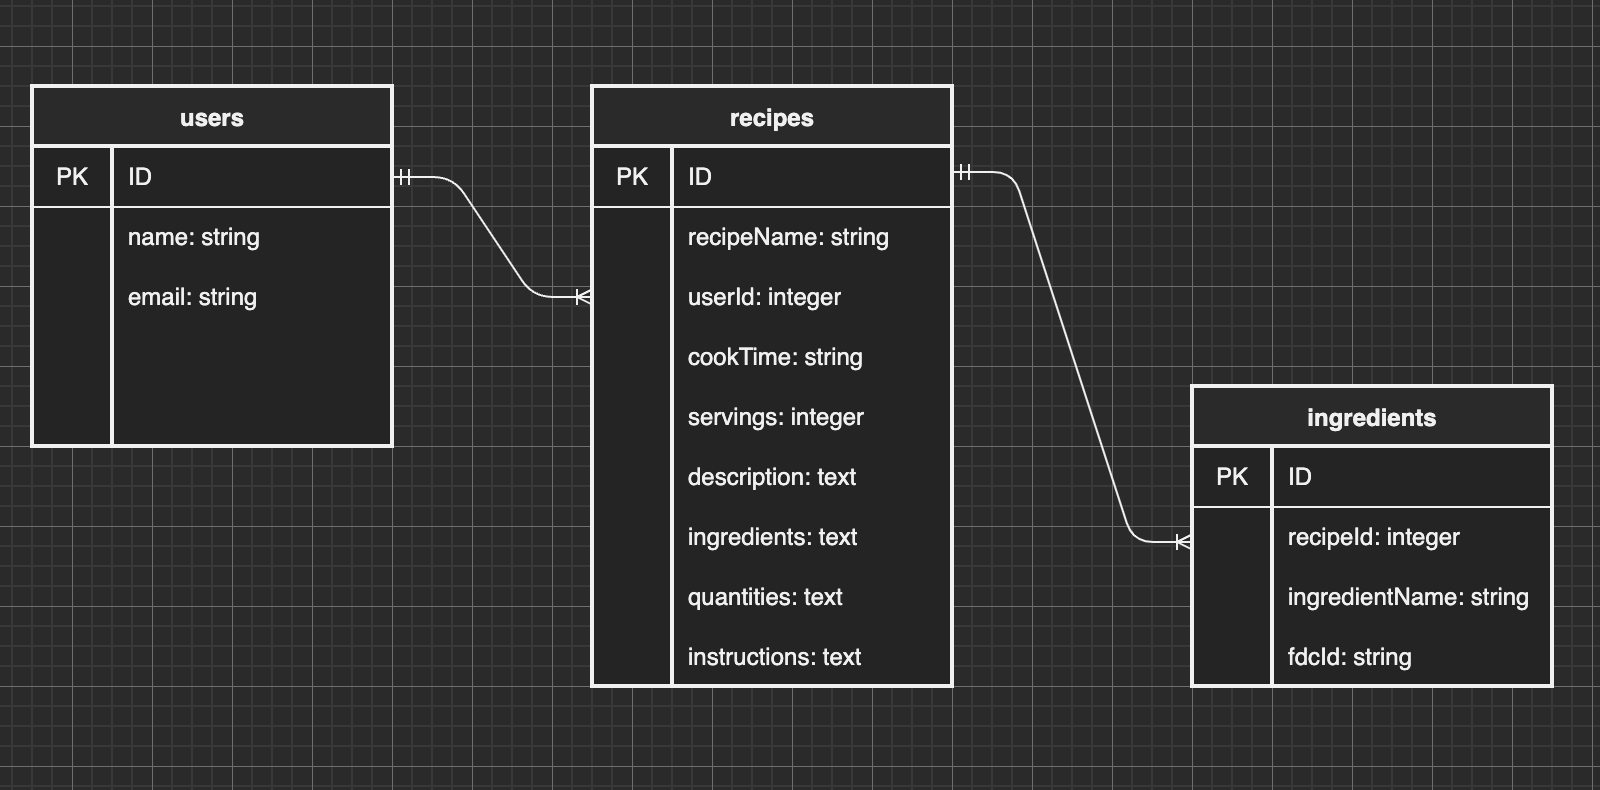
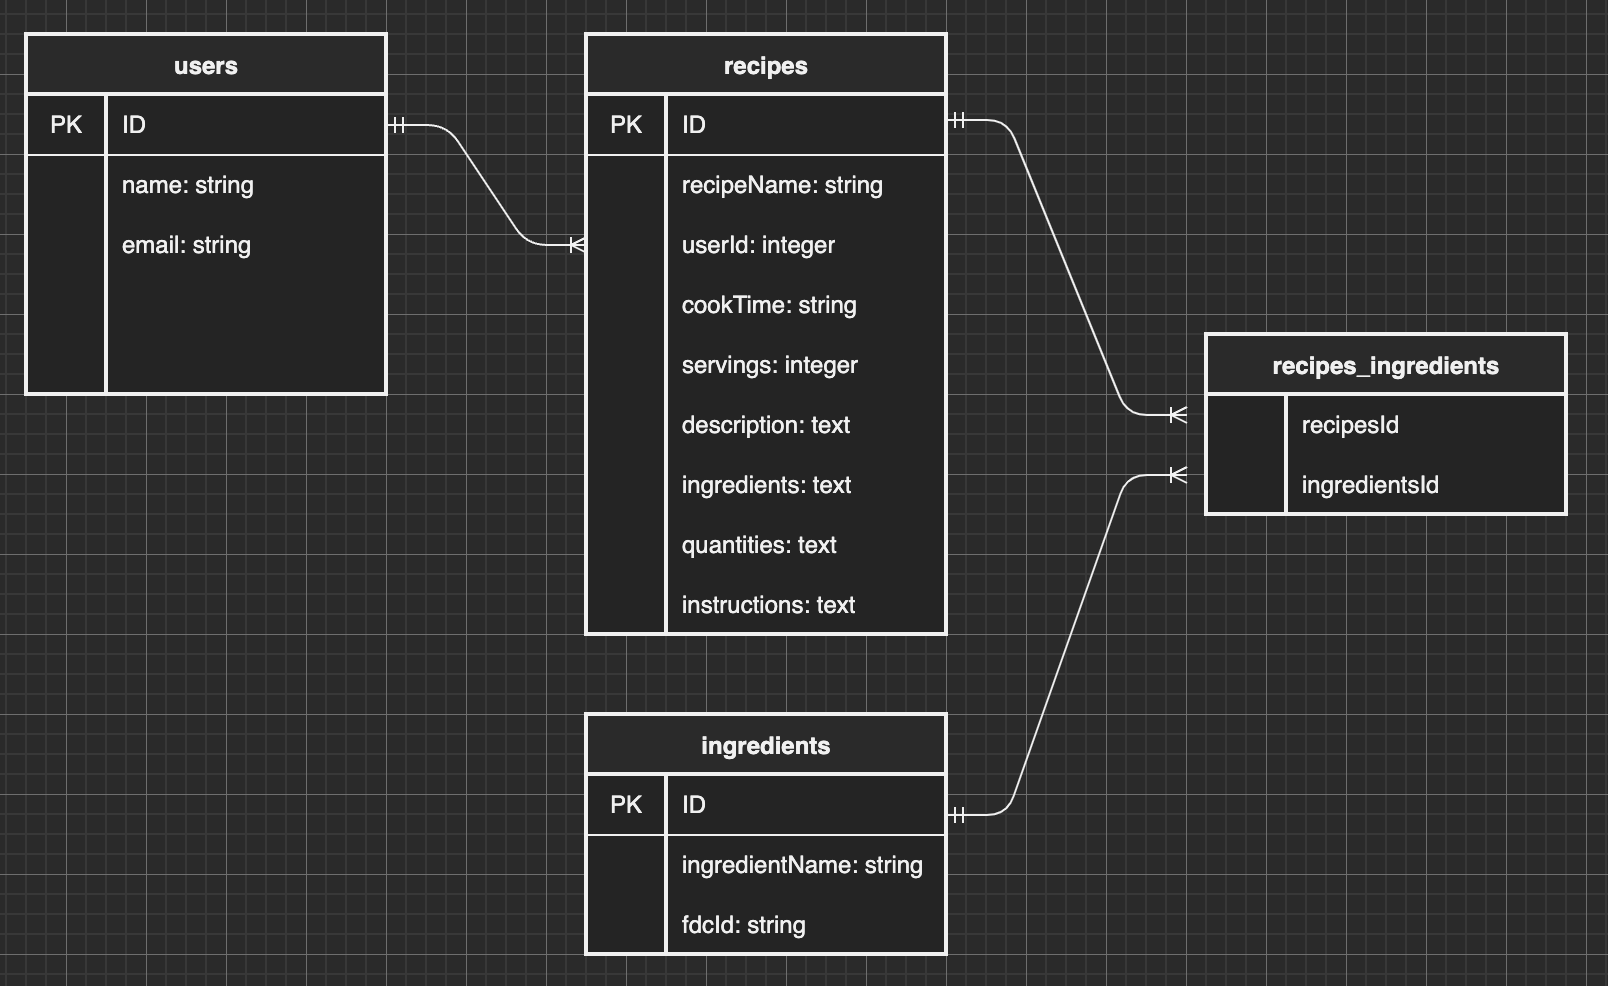
added username on signup, fixed routes, started new recipe form

diff --git a/migrations/20230103193927-create-recipe.js b/migrations/20230103193927-create-recipe.js
@@ -1,0 +1,49 @@
+'use strict';
+/** @type {import('sequelize-cli').Migration} */
+module.exports = {
+  async up(queryInterface, Sequelize) {
+    await queryInterface.createTable('recipes', {
+      id: {
+        allowNull: false,
+        autoIncrement: true,
+        primaryKey: true,
+        type: Sequelize.INTEGER
+      },
+      userId: {
+        type: Sequelize.INTEGER
+      },
+      recipe_name: {
+        type: Sequelize.STRING
+      },
+      cook_time: {
+        type: Sequelize.STRING
+      },
+      servings: {
+        type: Sequelize.INTEGER
+      },
+      description: {
+        type: Sequelize.TEXT
+      },
+      ingredient_list: {
+        type: Sequelize.TEXT
+      },
+      quantities: {
+        type: Sequelize.TEXT
+      },
+      instructions: {
+        type: Sequelize.TEXT
+      },
+      createdAt: {
+        allowNull: false,
+        type: Sequelize.DATE
+      },
+      updatedAt: {
+        allowNull: false,
+        type: Sequelize.DATE
+      }
+    });
+  },
+  async down(queryInterface, Sequelize) {
+    await queryInterface.dropTable('recipes');
+  }
+};

diff --git a/models/recipe.js b/models/recipe.js
@@ -1,0 +1,32 @@
+'use strict';
+const {
+  Model
+} = require('sequelize');
+module.exports = (sequelize, DataTypes) => {
+  class recipe extends Model {
+    /**
+     * Helper method for defining associations.
+     * This method is not a part of Sequelize lifecycle.
+     * The `models/index` file will call this method automatically.
+     */
+    static associate(models) {
+      // define association here
+      models.recipe.belongsTo(models.user)
+      models.recipe.belongsToMany(models.ingredient, {through: "recipes_ingredients"})
+    }
+  }
+  recipe.init({
+    userId: DataTypes.INTEGER,
+    recipe_name: DataTypes.STRING,
+    cook_time: DataTypes.STRING,
+    servings: DataTypes.INTEGER,
+    description: DataTypes.TEXT,
+    ingredient_list: DataTypes.TEXT,
+    quantities: DataTypes.TEXT,
+    instructions: DataTypes.TEXT
+  }, {
+    sequelize,
+    modelName: 'recipe',
+  });
+  return recipe;
+};

diff --git a/models/ingredient.js b/models/ingredient.js
@@ -3,7 +3,7 @@ const {
   Model
 } = require('sequelize');
 module.exports = (sequelize, DataTypes) => {
-  class user extends Model {
+  class ingredient extends Model {
     /**
      * Helper method for defining associations.
      * This method is not a part of Sequelize lifecycle.
@@ -11,16 +11,15 @@ module.exports = (sequelize, DataTypes) => {
      */
     static associate(models) {
       // define association here
-      models.user.hasMany(models.recipe)
+      models.ingredient.belongsToMany(models.recipe, {through: "recipes_ingredients"})
     }
   }
-  user.init({
-    username: DataTypes.STRING,
-    email: DataTypes.STRING,
-    password: DataTypes.STRING
+  ingredient.init({
+    ingredient_name: DataTypes.STRING,
+    fdcID: DataTypes.STRING
   }, {
     sequelize,
-    modelName: 'user',
+    modelName: 'ingredient',
   });
-  return user;
+  return ingredient;
 };

diff --git a/models/recipes_ingredients.js b/models/recipes_ingredients.js
@@ -3,7 +3,7 @@ const {
   Model
 } = require('sequelize');
 module.exports = (sequelize, DataTypes) => {
-  class user extends Model {
+  class recipes_ingredients extends Model {
     /**
      * Helper method for defining associations.
      * This method is not a part of Sequelize lifecycle.
@@ -11,16 +11,14 @@ module.exports = (sequelize, DataTypes) => {
      */
     static associate(models) {
       // define association here
-      models.user.hasMany(models.recipe)
     }
   }
-  user.init({
-    username: DataTypes.STRING,
-    email: DataTypes.STRING,
-    password: DataTypes.STRING
+  recipes_ingredients.init({
+    recipeId: DataTypes.INTEGER,
+    ingredientId: DataTypes.INTEGER
   }, {
     sequelize,
-    modelName: 'user',
+    modelName: 'recipes_ingredients',
   });
-  return user;
+  return recipes_ingredients;
 };

diff --git a/migrations/20230103203433-create-user.js b/migrations/20230103203433-create-user.js
@@ -1,0 +1,34 @@
+'use strict';
+/** @type {import('sequelize-cli').Migration} */
+module.exports = {
+  async up(queryInterface, Sequelize) {
+    await queryInterface.createTable('users', {
+      id: {
+        allowNull: false,
+        autoIncrement: true,
+        primaryKey: true,
+        type: Sequelize.INTEGER
+      },
+      username: {
+        type: Sequelize.STRING
+      },
+      email: {
+        type: Sequelize.STRING
+      },
+      password: {
+        type: Sequelize.STRING
+      },
+      createdAt: {
+        allowNull: false,
+        type: Sequelize.DATE
+      },
+      updatedAt: {
+        allowNull: false,
+        type: Sequelize.DATE
+      }
+    });
+  },
+  async down(queryInterface, Sequelize) {
+    await queryInterface.dropTable('users');
+  }
+};

diff --git a/migrations/20230103191553-create-recipes-ingredients.js b/migrations/20230103191553-create-recipes-ingredients.js
@@ -1,0 +1,31 @@
+'use strict';
+/** @type {import('sequelize-cli').Migration} */
+module.exports = {
+  async up(queryInterface, Sequelize) {
+    await queryInterface.createTable('recipes_ingredients', {
+      id: {
+        allowNull: false,
+        autoIncrement: true,
+        primaryKey: true,
+        type: Sequelize.INTEGER
+      },
+      recipeId: {
+        type: Sequelize.INTEGER
+      },
+      ingredientId: {
+        type: Sequelize.INTEGER
+      },
+      createdAt: {
+        allowNull: false,
+        type: Sequelize.DATE
+      },
+      updatedAt: {
+        allowNull: false,
+        type: Sequelize.DATE
+      }
+    });
+  },
+  async down(queryInterface, Sequelize) {
+    await queryInterface.dropTable('recipes_ingredients');
+  }
+};

diff --git a/migrations/20230103193940-create-ingredient.js b/migrations/20230103193940-create-ingredient.js
@@ -2,17 +2,17 @@
 /** @type {import('sequelize-cli').Migration} */
 module.exports = {
   async up(queryInterface, Sequelize) {
-    await queryInterface.createTable('users', {
+    await queryInterface.createTable('ingredients', {
       id: {
         allowNull: false,
         autoIncrement: true,
         primaryKey: true,
         type: Sequelize.INTEGER
       },
-      email: {
+      ingredient_name: {
         type: Sequelize.STRING
       },
-      password: {
+      fdcID: {
         type: Sequelize.STRING
       },
       createdAt: {
@@ -26,6 +26,6 @@ module.exports = {
     });
   },
   async down(queryInterface, Sequelize) {
-    await queryInterface.dropTable('users');
+    await queryInterface.dropTable('ingredients');
   }
 };

diff --git a/controllers/recipes.js b/controllers/recipes.js
@@ -3,8 +3,26 @@ const db = require('../models')
 const router = express.Router()
 
 
-router.get('/', (req, res) => {
-    res.render('recipes/browse.ejs')
+router.get('/', async (req, res) => {
+    try {
+        const recipes = await db.recipe.findAll({
+            include: [db.user]
+        })
+        console.log(recipes)
+        res.render('recipes/browse.ejs', {recipes: recipes})
+    }catch (err){
+        console.log(error)
+        res.status(400).render('main/404')
+    }
+    
+})
+router.get('/new', async (req, res) => {
+    try {
+        res.render('recipes/new.ejs')
+    }catch (err) {
+        console.log(error)
+        res.status(400).render('main/404')
+    }
 })
 
 

diff --git a/controllers/users.js b/controllers/users.js
@@ -21,6 +21,7 @@ router.post('/', async (req, res) => {
         //based on the info in the req.body, find or create user
         const [newUser, created] = await db.user.findOrCreate({
             where: {
+                username: req.body.username,
                 email: req.body.email
             }
         })
